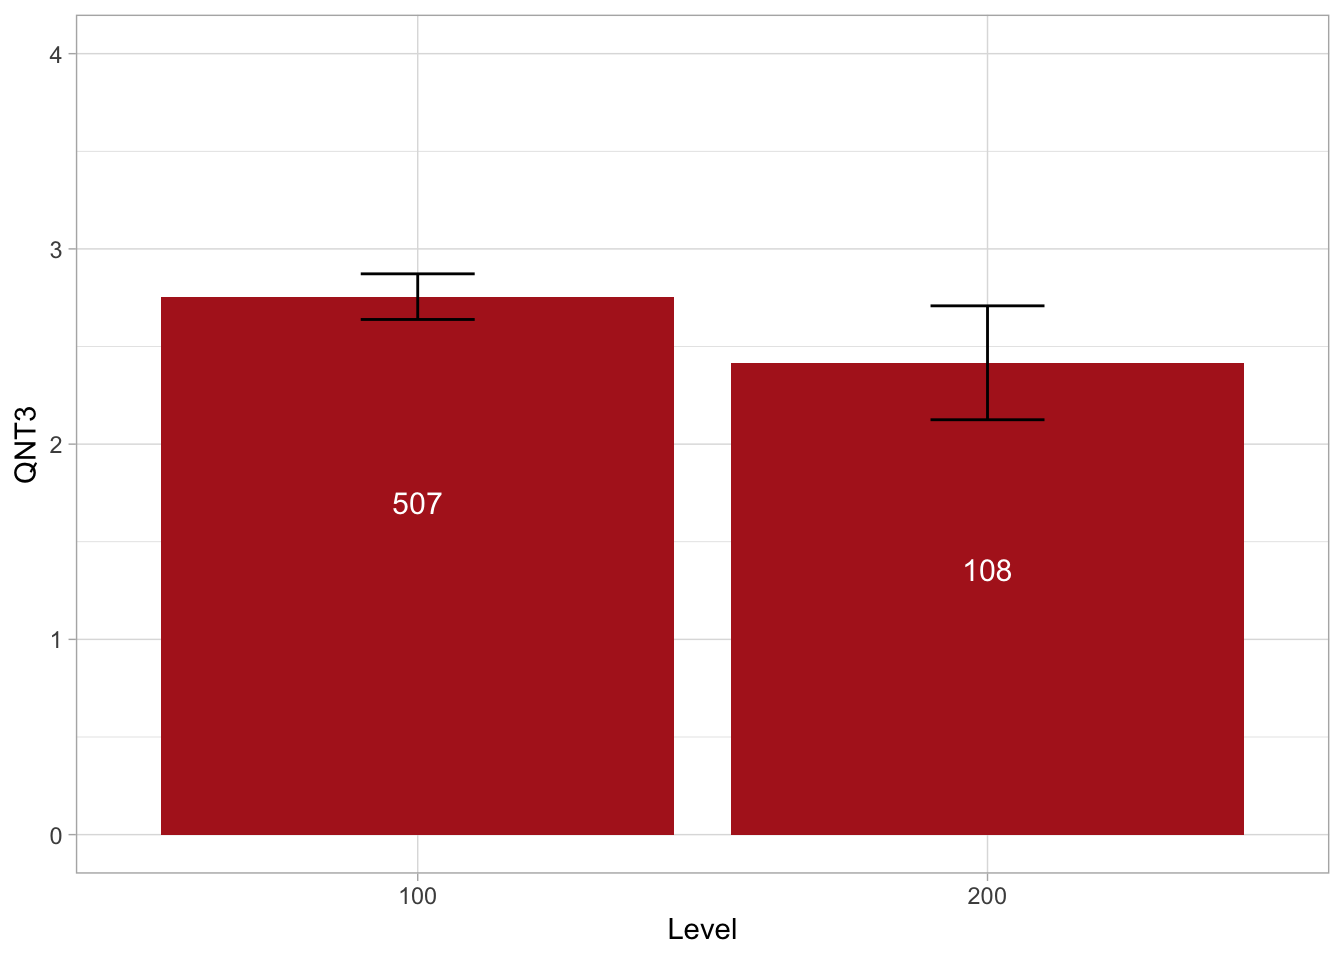
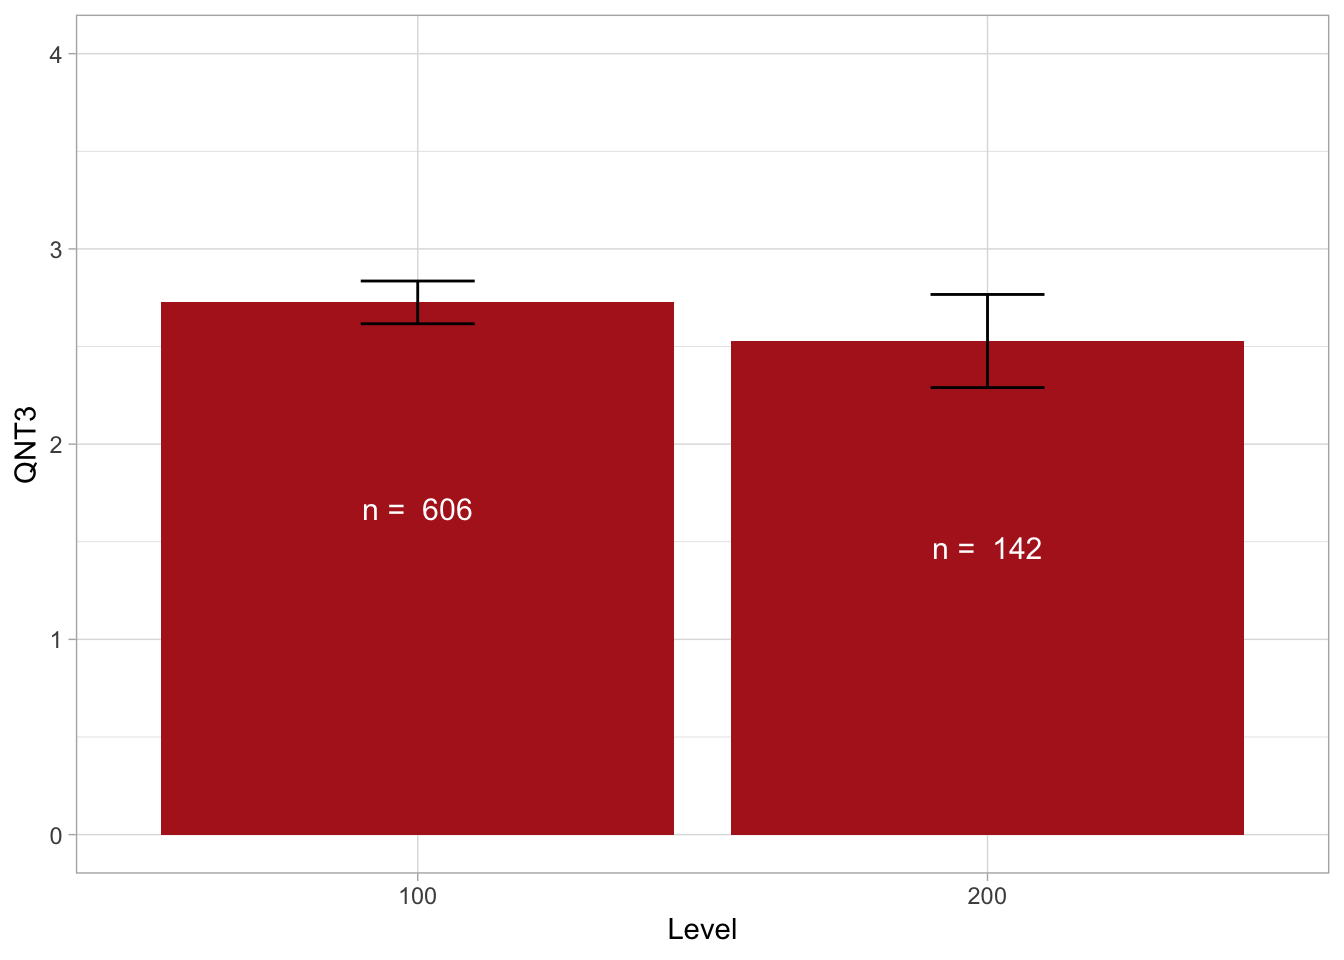
Add t-test for level comparison

diff --git a/docs/results.html b/docs/results.html
@@ -216,6 +216,7 @@ Do you think that this reflects the actual status of student performance in thes
 Figure 4: A comparison of student performance on QNT3 by course level. Error bars indicate the 95% confidence intervals.
 </p>
 </div>
+<p>The average rubric scores for 100-level and 200-level courses was 2.73 and 2.53, respectively . Both of these averages are near the threshold value of 2.6. The difference between these scores was not statistically different as evaluated with a two-tailed t-test (t=1.49, df=205.41, p=0.14). The effect size for the difference between was tiny (d=0.1). We can infer from this that there was no evidence of a measurable difference in student performance by course level.</p>
 </div>
 <div id="performance-by-student-gender" class="section level2 unnumbered">
 <h2>Performance by Student Gender</h2>
